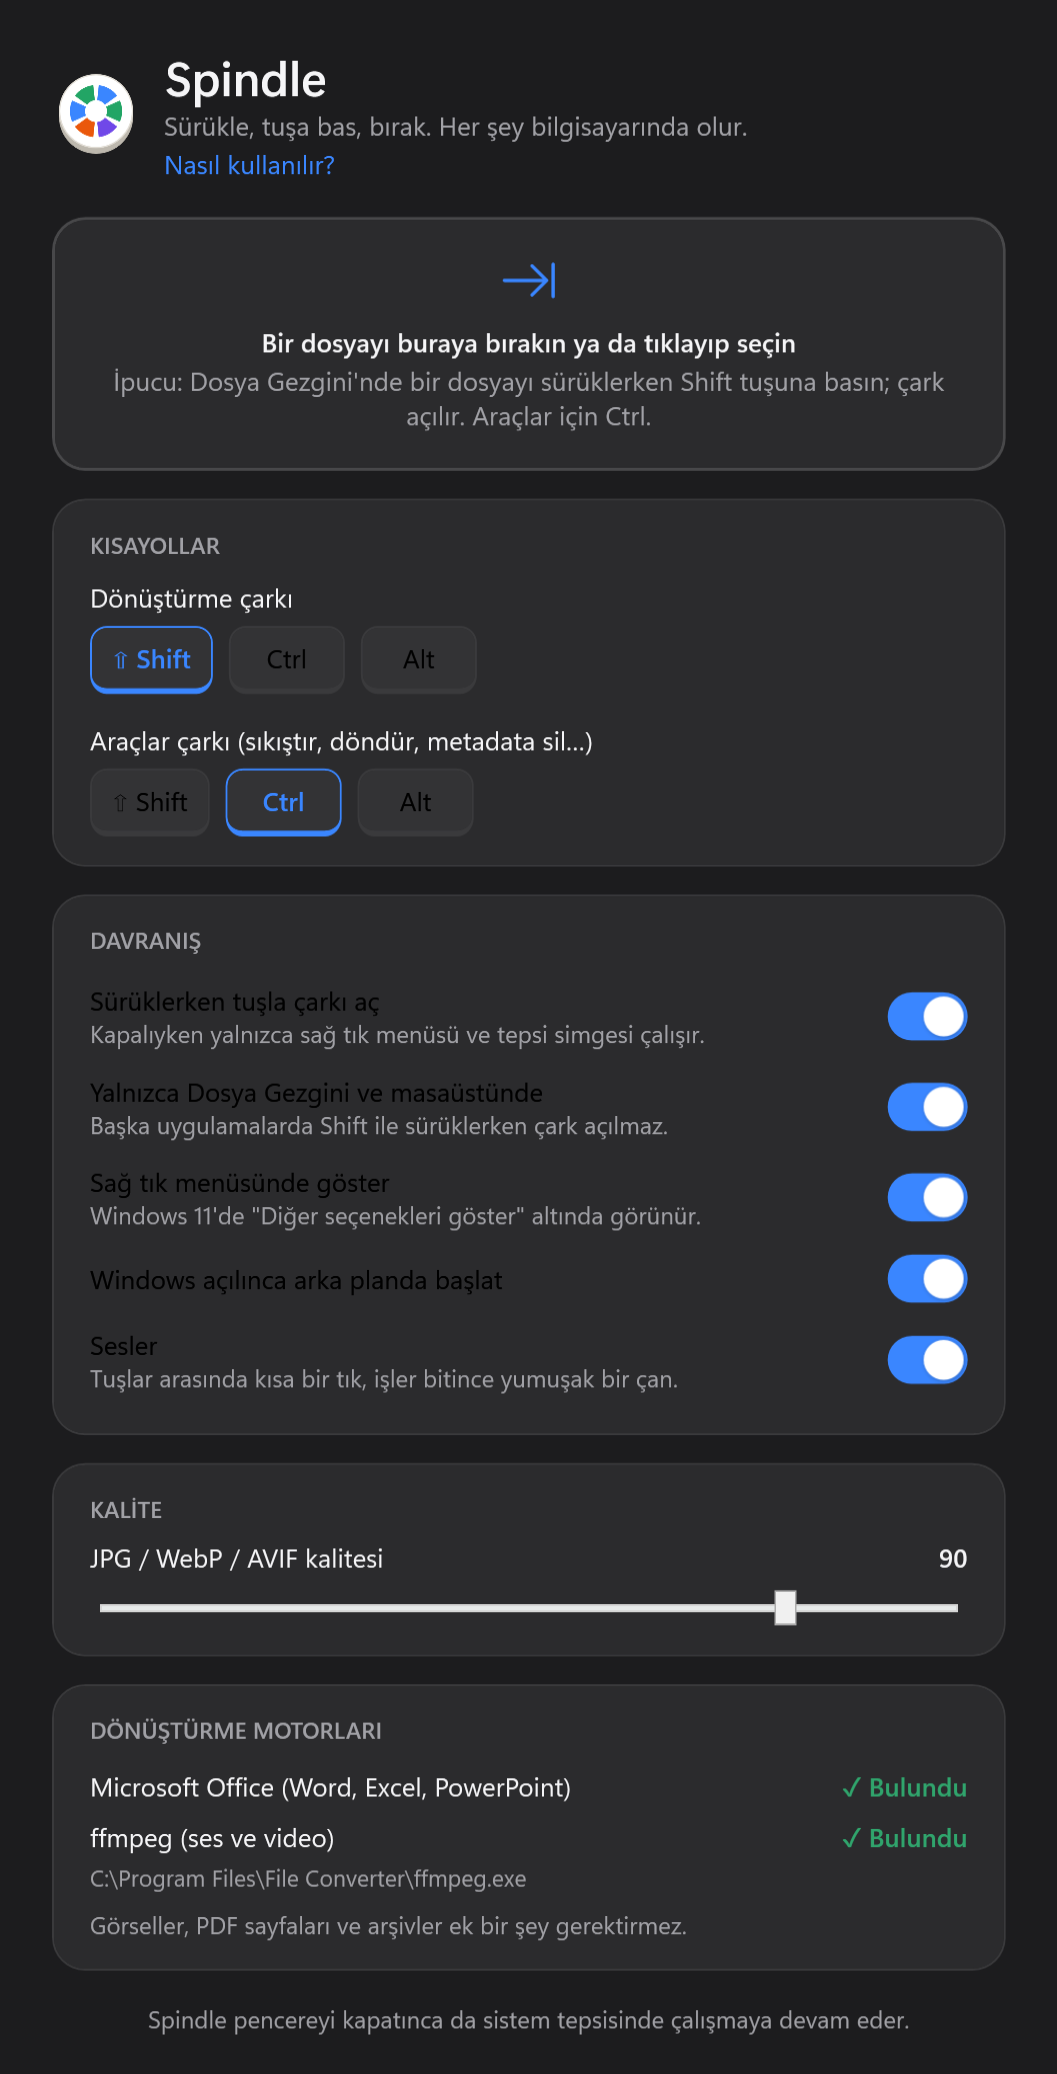
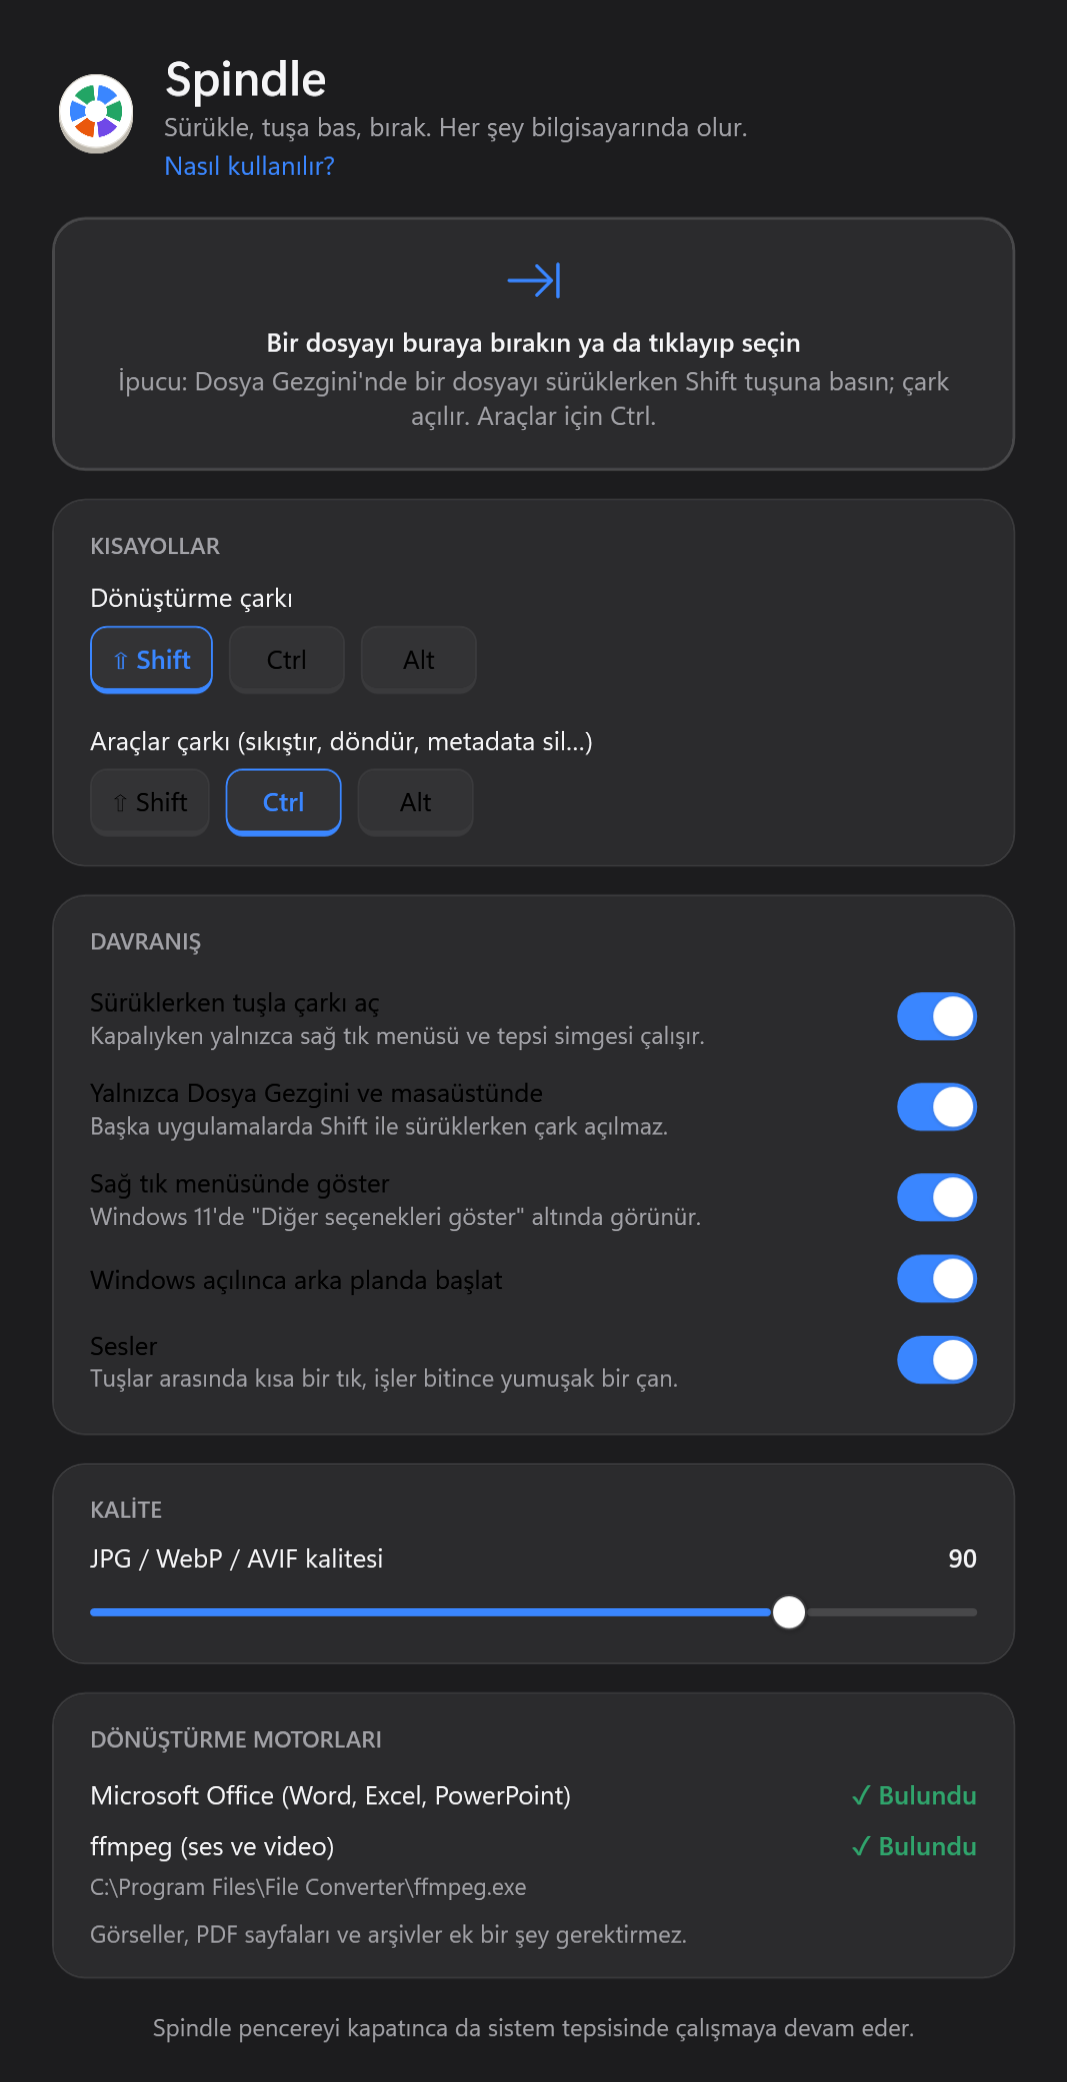
İnce kaydırma çubuğu ve kaydırıcı (0.1.1)
- Kaydırma çubuğu: ok düğmeleri ve iz yok, yarı saydam yuvarlak bir tutamak; üzerine gelince
  kalınlaşır. Açık ve koyu temada aynı; tüm pencerelerde geçerli (App.xaml).
- Ayarlar'daki kalite kaydırıcısı: ince iz, dolu kısım vurgu renginde, yuvarlak tutamak.
- Sürüm 0.1.1; Ayarlar görseli yenilendi.

diff --git a/src/Spindle/App.xaml b/src/Spindle/App.xaml
@@ -2,4 +2,119 @@
              xmlns="http://schemas.microsoft.com/winfx/2006/xaml/presentation"
              xmlns:x="http://schemas.microsoft.com/winfx/2006/xaml"
              ShutdownMode="OnExplicitShutdown">
+  <Application.Resources>
+    <!--
+      İnce kaydırma çubuğu (tüm pencerelerde): ok düğmesi ve iz yok, yalnızca yuvarlak bir tutamak.
+      Yarı saydam gri olduğu için açık ve koyu temada aynı çalışır; üzerine gelince kalınlaşır ve koyulaşır.
+    -->
+    <SolidColorBrush x:Key="ScrollThumbBrush" Color="#8C8C93"/>
+
+    <Style x:Key="ScrollPage" TargetType="RepeatButton">
+      <Setter Property="Focusable" Value="False"/>
+      <Setter Property="IsTabStop" Value="False"/>
+      <Setter Property="Template">
+        <Setter.Value>
+          <ControlTemplate TargetType="RepeatButton">
+            <Border Background="Transparent"/>
+          </ControlTemplate>
+        </Setter.Value>
+      </Setter>
+    </Style>
+
+    <Style x:Key="ScrollThumbV" TargetType="Thumb">
+      <Setter Property="Focusable" Value="False"/>
+      <Setter Property="Template">
+        <Setter.Value>
+          <ControlTemplate TargetType="Thumb">
+            <Border x:Name="Bar" Width="4" CornerRadius="3" HorizontalAlignment="Center" Margin="0,2"
+                    Background="{StaticResource ScrollThumbBrush}" Opacity="0.55"/>
+            <ControlTemplate.Triggers>
+              <DataTrigger Binding="{Binding IsMouseOver, RelativeSource={RelativeSource AncestorType=ScrollBar}}" Value="True">
+                <Setter TargetName="Bar" Property="Width" Value="7"/>
+                <Setter TargetName="Bar" Property="Opacity" Value="0.8"/>
+              </DataTrigger>
+              <Trigger Property="IsDragging" Value="True">
+                <Setter TargetName="Bar" Property="Width" Value="7"/>
+                <Setter TargetName="Bar" Property="Opacity" Value="0.95"/>
+              </Trigger>
+            </ControlTemplate.Triggers>
+          </ControlTemplate>
+        </Setter.Value>
+      </Setter>
+    </Style>
+
+    <Style x:Key="ScrollThumbH" TargetType="Thumb">
+      <Setter Property="Focusable" Value="False"/>
+      <Setter Property="Template">
+        <Setter.Value>
+          <ControlTemplate TargetType="Thumb">
+            <Border x:Name="Bar" Height="4" CornerRadius="3" VerticalAlignment="Center" Margin="2,0"
+                    Background="{StaticResource ScrollThumbBrush}" Opacity="0.55"/>
+            <ControlTemplate.Triggers>
+              <DataTrigger Binding="{Binding IsMouseOver, RelativeSource={RelativeSource AncestorType=ScrollBar}}" Value="True">
+                <Setter TargetName="Bar" Property="Height" Value="7"/>
+                <Setter TargetName="Bar" Property="Opacity" Value="0.8"/>
+              </DataTrigger>
+              <Trigger Property="IsDragging" Value="True">
+                <Setter TargetName="Bar" Property="Height" Value="7"/>
+                <Setter TargetName="Bar" Property="Opacity" Value="0.95"/>
+              </Trigger>
+            </ControlTemplate.Triggers>
+          </ControlTemplate>
+        </Setter.Value>
+      </Setter>
+    </Style>
+
+    <Style TargetType="ScrollBar">
+      <Setter Property="Background" Value="Transparent"/>
+      <Setter Property="Width" Value="12"/>
+      <Setter Property="MinWidth" Value="12"/>
+      <Setter Property="Template">
+        <Setter.Value>
+          <ControlTemplate TargetType="ScrollBar">
+            <Grid Background="Transparent" SnapsToDevicePixels="True">
+              <Track x:Name="PART_Track" IsDirectionReversed="True">
+                <Track.DecreaseRepeatButton>
+                  <RepeatButton Style="{StaticResource ScrollPage}" Command="ScrollBar.PageUpCommand"/>
+                </Track.DecreaseRepeatButton>
+                <Track.IncreaseRepeatButton>
+                  <RepeatButton Style="{StaticResource ScrollPage}" Command="ScrollBar.PageDownCommand"/>
+                </Track.IncreaseRepeatButton>
+                <Track.Thumb>
+                  <Thumb Style="{StaticResource ScrollThumbV}"/>
+                </Track.Thumb>
+              </Track>
+            </Grid>
+          </ControlTemplate>
+        </Setter.Value>
+      </Setter>
+      <Style.Triggers>
+        <Trigger Property="Orientation" Value="Horizontal">
+          <Setter Property="Width" Value="Auto"/>
+          <Setter Property="MinWidth" Value="0"/>
+          <Setter Property="Height" Value="12"/>
+          <Setter Property="MinHeight" Value="12"/>
+          <Setter Property="Template">
+            <Setter.Value>
+              <ControlTemplate TargetType="ScrollBar">
+                <Grid Background="Transparent" SnapsToDevicePixels="True">
+                  <Track x:Name="PART_Track" IsDirectionReversed="False">
+                    <Track.DecreaseRepeatButton>
+                      <RepeatButton Style="{StaticResource ScrollPage}" Command="ScrollBar.PageLeftCommand"/>
+                    </Track.DecreaseRepeatButton>
+                    <Track.IncreaseRepeatButton>
+                      <RepeatButton Style="{StaticResource ScrollPage}" Command="ScrollBar.PageRightCommand"/>
+                    </Track.IncreaseRepeatButton>
+                    <Track.Thumb>
+                      <Thumb Style="{StaticResource ScrollThumbH}"/>
+                    </Track.Thumb>
+                  </Track>
+                </Grid>
+              </ControlTemplate>
+            </Setter.Value>
+          </Setter>
+        </Trigger>
+      </Style.Triggers>
+    </Style>
+  </Application.Resources>
 </Application>

diff --git a/src/Spindle/UI/SettingsWindow.xaml b/src/Spindle/UI/SettingsWindow.xaml
@@ -89,6 +89,54 @@
       </Setter>
     </Style>
 
+    <!-- İnce kaydırıcı: dolu kısım vurgu renginde, yuvarlak tutamak -->
+    <Style x:Key="SliderFill" TargetType="RepeatButton">
+      <Setter Property="Focusable" Value="False"/>
+      <Setter Property="Template">
+        <Setter.Value>
+          <ControlTemplate TargetType="RepeatButton">
+            <Border Height="4" CornerRadius="2" Background="{TemplateBinding Background}"/>
+          </ControlTemplate>
+        </Setter.Value>
+      </Setter>
+    </Style>
+    <Style TargetType="Slider">
+      <Setter Property="Cursor" Value="Hand"/>
+      <Setter Property="Template">
+        <Setter.Value>
+          <ControlTemplate TargetType="Slider">
+            <Track x:Name="PART_Track" Height="22">
+              <Track.DecreaseRepeatButton>
+                <RepeatButton Style="{StaticResource SliderFill}" Background="{DynamicResource Accent}" Command="Slider.DecreaseLarge"/>
+              </Track.DecreaseRepeatButton>
+              <Track.IncreaseRepeatButton>
+                <RepeatButton Style="{StaticResource SliderFill}" Background="{DynamicResource Track}" Command="Slider.IncreaseLarge"/>
+              </Track.IncreaseRepeatButton>
+              <Track.Thumb>
+                <Thumb>
+                  <Thumb.Template>
+                    <ControlTemplate TargetType="Thumb">
+                      <Ellipse x:Name="Knob" Width="18" Height="18" Fill="White" Stroke="{DynamicResource CardEdge}" StrokeThickness="1">
+                        <Ellipse.Effect>
+                          <DropShadowEffect BlurRadius="4" ShadowDepth="1" Opacity="0.25"/>
+                        </Ellipse.Effect>
+                      </Ellipse>
+                      <ControlTemplate.Triggers>
+                        <Trigger Property="IsDragging" Value="True">
+                          <Setter TargetName="Knob" Property="Width" Value="20"/>
+                          <Setter TargetName="Knob" Property="Height" Value="20"/>
+                        </Trigger>
+                      </ControlTemplate.Triggers>
+                    </ControlTemplate>
+                  </Thumb.Template>
+                </Thumb>
+              </Track.Thumb>
+            </Track>
+          </ControlTemplate>
+        </Setter.Value>
+      </Setter>
+    </Style>
+
     <Style x:Key="Pill" TargetType="Button">
       <Setter Property="Cursor" Value="Hand"/>
       <Setter Property="Foreground" Value="White"/>
